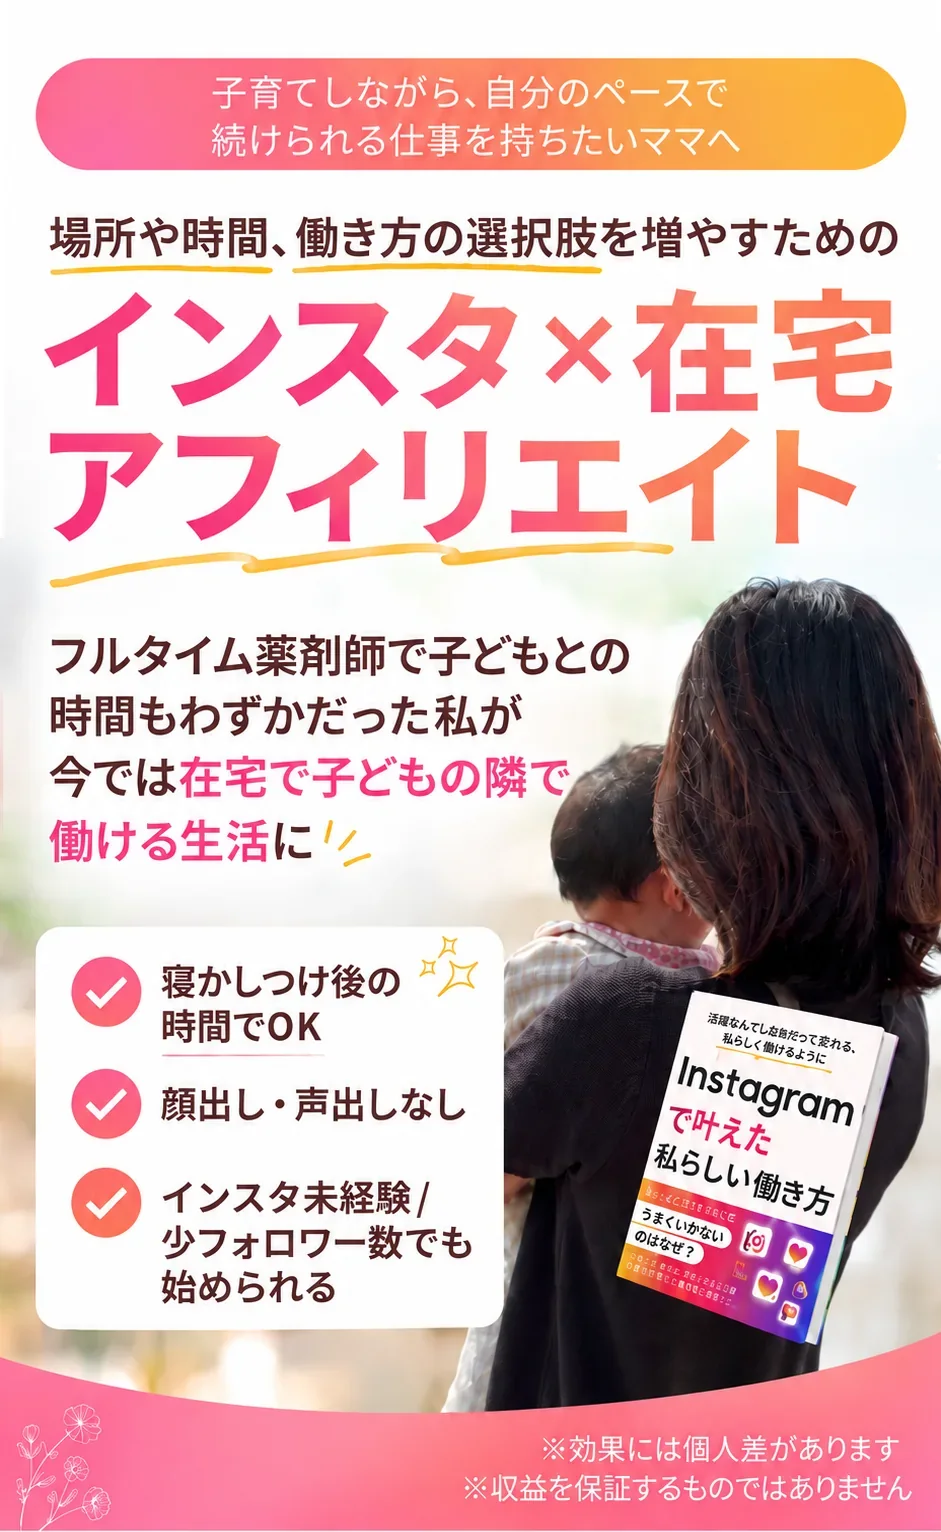
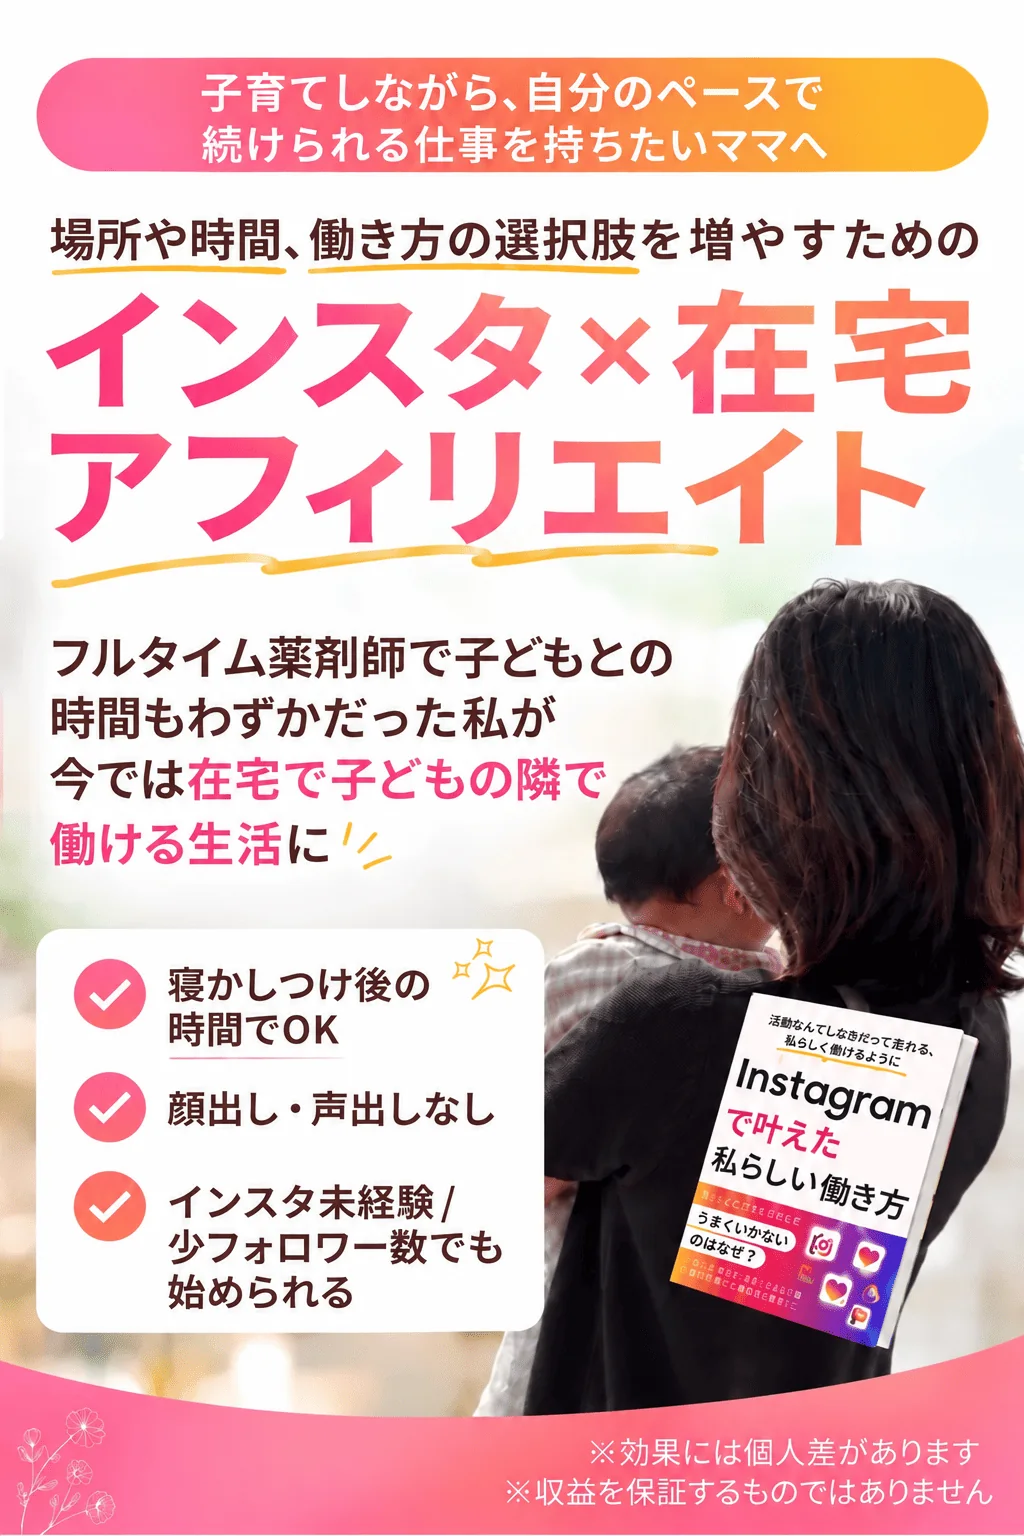
feat: FV画像を差し替え（支給の新ビジュアル）
941x1532 -> 1024x1536。書籍が大きく入り、子どもの顔が隠れない構図に。
文言は D列 row4 と全項目一致を確認済み。

- WebP q=84 で 547KB -> 157KB（71%削減）
- img の width/height 属性も新寸法へ更新
- FV高さ 635px -> 585px（375px幅基準）

diff --git a/index.html b/index.html
@@ -41,7 +41,7 @@
                  CTAは原稿どおり置かず、次セクション（row5）に1つだけ。 -->
             <section class="fvx">
                 <h1 class="fvx__main">
-                    <img src="images/fv_main.webp" width="941" height="1532" fetchpriority="high"
+                    <img src="images/fv_main.webp" width="1024" height="1536" fetchpriority="high"
                          alt="子育てしながら、自分のペースで続けられる仕事を持ちたいママへ。場所や時間、働き方の選択肢を増やすための、インスタ×在宅アフィリエイト。フルタイム薬剤師で子どもとの時間もわずかだった私が、今では在宅で子どもの隣で働ける生活に。寝かしつけ後の時間でOK／顔出し・声出しなし／インスタ未経験/少フォロワー数でも始められる。※効果には個人差があります。※収益を保証するものではありません。">
                 </h1>
             </section>
